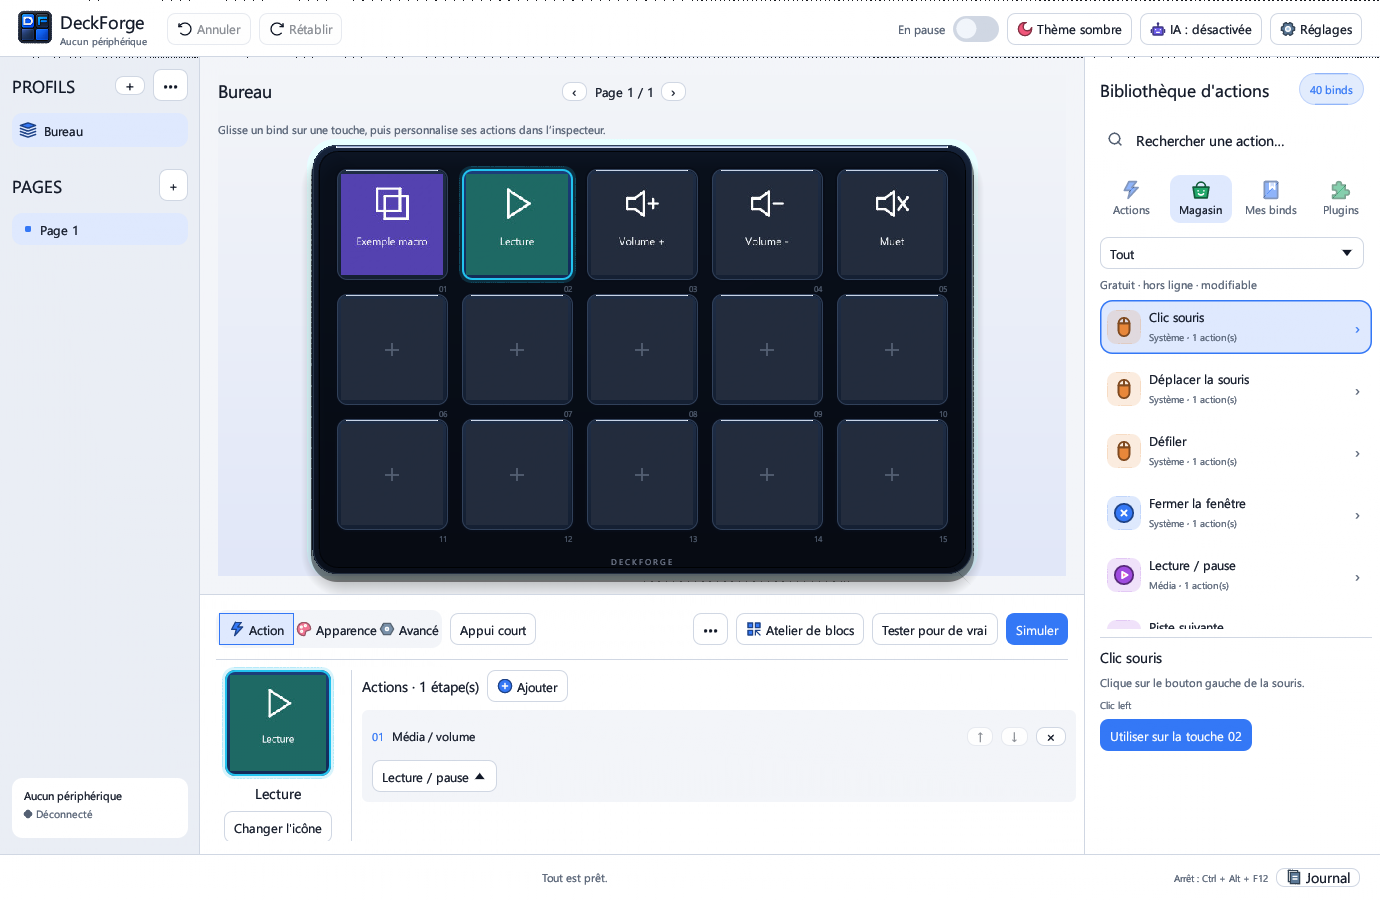
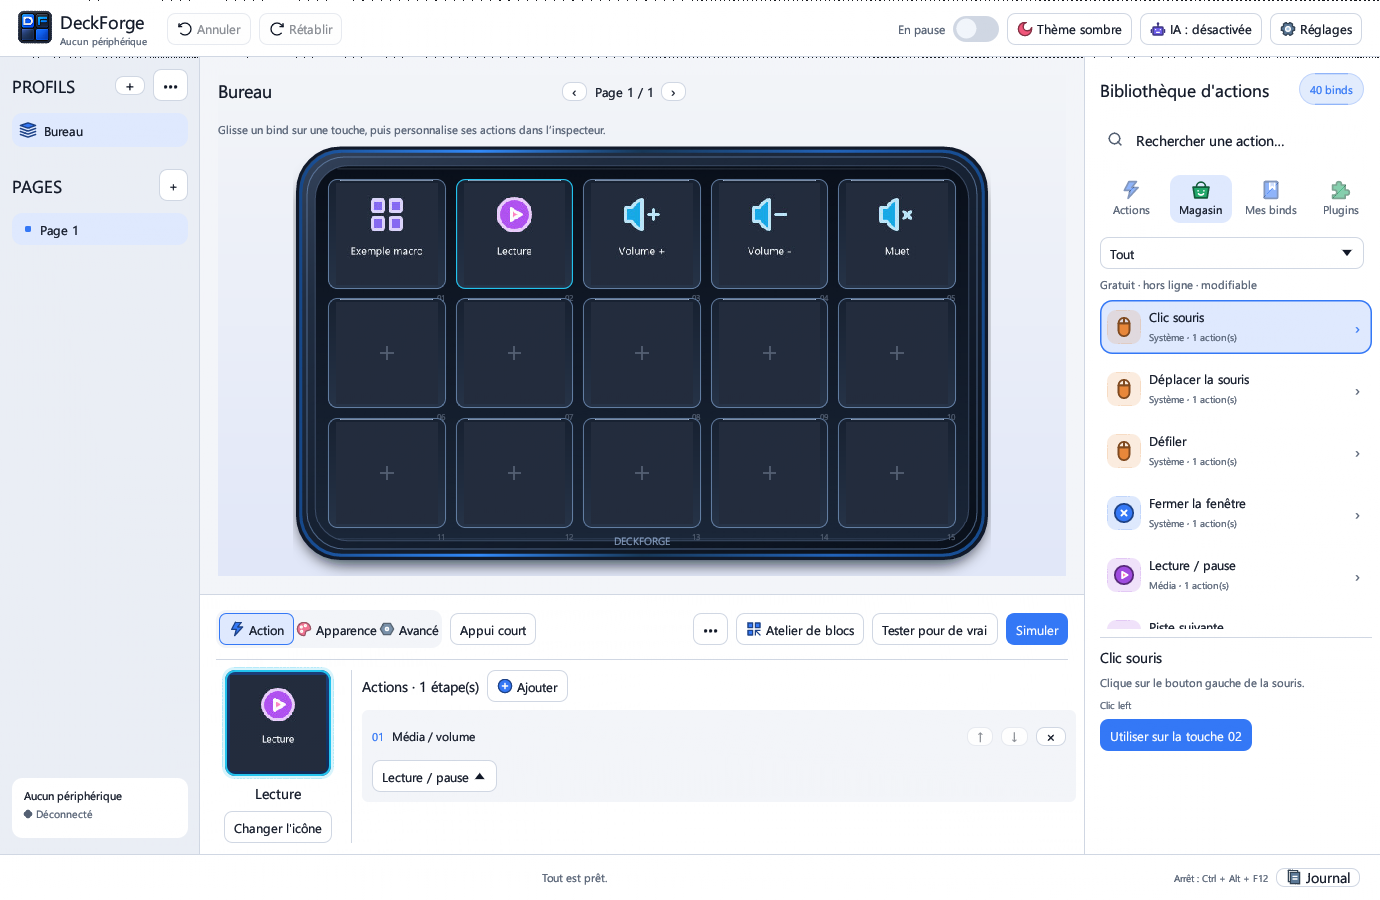
fix(ui): align dynamic deck keys to SVG chassis

Changed region(s): [[0.187, 0.1556, 0.7167, 0.6533], [0.1558, 0.7467, 0.2493, 0.8711]]

diff --git a/src/deck_chassis.rs b/src/deck_chassis.rs
@@ -1,4 +1,4 @@
-//! Habillage SVG du pavé 5 × 3 : châssis, reliefs, ombres et emplacements des touches.
+//! Châssis SVG 3D sans art individuel des touches ; relief et contenus dynamiques par egui.
 //!
 //! Trois couches :
 //! 1. ce châssis (`res/deck/chassis.svg`, sans les faces des touches), rastérisé une fois par
@@ -16,22 +16,29 @@ const ORIGIN: Vec2 = Vec2::new(22.0, 14.0);
 pub const VIEW: Vec2 = Vec2::new(1356.0, 838.0);
 pub const COLS: usize = 5;
 pub const ROWS: usize = 3;
-/// Face d'une touche dans la viewBox : origine, pas et taille.
-const FACE_ORIGIN: Vec2 = Vec2::new(113.0, 104.0);
-const FACE_PITCH: Vec2 = Vec2::new(244.0, 225.0);
-pub const FACE_SIZE: Vec2 = Vec2::new(202.0, 190.0);
-const FACE_RADIUS: f32 = 21.0;
+/// Le rectangle intérieur du SVG est la référence commune au châssis et aux 15 touches.
+const INNER_MIN: Vec2 = Vec2::new(65.0, 54.0);
+const INNER_SIZE: Vec2 = Vec2::new(1270.0, 730.0);
+const GRID_PADDING: Vec2 = Vec2::new(25.0, 26.0);
+const GRID_GAP: Vec2 = Vec2::new(20.0, 18.0);
+pub const FACE_SIZE: Vec2 = Vec2::new(
+    (INNER_SIZE.x - 2.0 * GRID_PADDING.x - 4.0 * GRID_GAP.x) / COLS as f32,
+    (INNER_SIZE.y - 2.0 * GRID_PADDING.y - 2.0 * GRID_GAP.y) / ROWS as f32,
+);
+const FACE_ORIGIN: Vec2 = Vec2::new(INNER_MIN.x + GRID_PADDING.x, INNER_MIN.y + GRID_PADDING.y);
+const FACE_PITCH: Vec2 = Vec2::new(FACE_SIZE.x + GRID_GAP.x, FACE_SIZE.y + GRID_GAP.y);
+const FACE_RADIUS: f32 = 18.0;
 
 /// Le châssis SVG ne sert qu'au format 5 × 3 (FIFINE D6 et équivalents).
 pub fn applies(cols: usize, rows: usize) -> bool {
     cols == COLS && rows == ROWS
 }
 
-/// Plus grand rectangle aux proportions du SVG dans `available`, centré horizontalement, en haut.
+/// Plus grand rectangle sans déformation, centré dans la zone disponible.
 pub fn fit(available: Rect) -> Rect {
     let scale = (available.width() / VIEW.x).min(available.height() / VIEW.y).max(0.05);
     let size = VIEW * scale;
-    Rect::from_min_size(egui::pos2(available.center().x - size.x / 2.0, available.top()), size)
+    Rect::from_center_size(available.center(), size)
 }
 
 /// Échelle du châssis (points d'écran par unité SVG).
@@ -39,12 +46,16 @@ pub fn scale(chassis: Rect) -> f32 {
     chassis.width() / VIEW.x
 }
 
-/// Face de la touche `index` (0 à 14), alignée sur son emplacement du SVG.
+/// Convertit une position SVG absolue en points d'écran avec le même repère que les touches.
+pub fn svg_point(chassis: Rect, point: egui::Pos2) -> egui::Pos2 {
+    chassis.min + (point.to_vec2() - ORIGIN) * scale(chassis)
+}
+
+/// Face de la touche `index` (0 à 14) dans le repère commun du SVG.
 pub fn face(chassis: Rect, index: usize) -> Rect {
-    let s = scale(chassis);
     let (col, row) = ((index % COLS) as f32, (index / COLS) as f32);
-    let min = chassis.min + (FACE_ORIGIN - ORIGIN + Vec2::new(FACE_PITCH.x * col, FACE_PITCH.y * row)) * s;
-    Rect::from_min_size(min, FACE_SIZE * s)
+    let min = svg_point(chassis, (FACE_ORIGIN + Vec2::new(FACE_PITCH.x * col, FACE_PITCH.y * row)).to_pos2());
+    Rect::from_min_size(min, FACE_SIZE * scale(chassis))
 }
 
 /// Zone carrée de l'aperçu LCD, centrée dans la face (le contenu n'est jamais déformé).
@@ -115,27 +126,29 @@ pub fn paint(painter: &egui::Painter, chassis: Rect) -> bool {
     true
 }
 
-/// Face dynamique d'une touche, dans le style du SVG (dégradé, liseré clair, reflets).
+/// Face 3D dynamique : ombre intérieure dans le dégradé, un unique contour et un reflet discret.
 pub fn paint_face(painter: &egui::Painter, face: Rect, scale: f32, selected: bool, flashing: bool) {
     let radius = FACE_RADIUS * scale;
+    // Le sommet sombre suggère l'enfoncement ; la base plus claire garde le relief lisible.
     let (top, bottom) = if flashing {
-        (Color32::from_rgb(40, 104, 92), Color32::from_rgb(20, 60, 56))
-    } else if selected {
-        (Color32::from_rgb(52, 88, 150), Color32::from_rgb(28, 50, 96))
+        (Color32::from_rgb(19, 47, 48), Color32::from_rgb(34, 63, 59))
     } else {
-        (Color32::from_rgb(64, 82, 110), Color32::from_rgb(32, 43, 64))
+        (Color32::from_rgb(24, 34, 50), Color32::from_rgb(39, 52, 72))
     };
     crate::theme::rounded_gradient(painter, face, radius, top, bottom);
-    painter.rect_stroke(face, radius, Stroke::new((1.5 * scale).max(1.0), Color32::from_rgba_unmultiplied(139, 175, 221, 178)), egui::StrokeKind::Inside);
-    let line = |a: Vec2, b: Vec2, alpha: u8| {
-        painter.line_segment([face.min + a * scale, face.min + b * scale], Stroke::new((2.0 * scale).max(1.0), Color32::from_rgba_unmultiplied(197, 223, 255, alpha)));
+    let (stroke, color) = if flashing {
+        (2.2, crate::theme::GREEN)
+    } else if selected {
+        (2.2, crate::theme::CYAN)
+    } else {
+        (1.15, Color32::from_rgba_unmultiplied(126, 157, 196, 125))
     };
-    line(Vec2::new(18.0, 4.0), Vec2::new(183.0, 4.0), 87);
-    line(Vec2::new(9.0, 33.0), Vec2::new(9.0, 153.0), 46);
-    if selected || flashing {
-        let color = if flashing { crate::theme::GREEN } else { crate::theme::CYAN };
-        painter.rect_stroke(face.expand(3.0 * scale + 1.0), radius + 3.0 * scale, Stroke::new((5.0 * scale).max(2.0), color), egui::StrokeKind::Outside);
-    }
+    painter.rect_stroke(face, radius, Stroke::new((stroke * scale).max(0.9), color), egui::StrokeKind::Inside);
+    // Un reflet local (pas un second rectangle qui doublerait les bordures).
+    painter.line_segment([
+        face.left_top() + Vec2::new(24.0, 3.0) * scale,
+        face.right_top() + Vec2::new(-24.0, 3.0) * scale,
+    ], Stroke::new((1.0 * scale).max(0.5), Color32::from_rgba_unmultiplied(202, 221, 244, 68)));
 }
 
 #[cfg(test)]
@@ -143,17 +156,36 @@ mod tests {
     use super::*;
 
     #[test]
-    fn faces_match_the_svg_slots_and_keep_proportions() {
-        // Les emplacements du SVG (puits + biseau) entourent chaque face d'environ 11 unités.
+    fn chassis_contains_no_key_art_and_dynamic_faces_fill_the_inner_shell() {
+        assert!(!SVG.contains("id=\"key-"), "aucune bordure de touche dans le SVG");
+        assert!(!SVG.contains("url(#edge)"), "aucun biseau individuel dans le SVG");
+        assert!(!SVG.contains("key-shadow"), "aucune ombre individuelle dans le SVG");
         let chassis = Rect::from_min_size(ORIGIN.to_pos2(), VIEW);
-        let slots = [(102.0, 93.0), (346.0, 93.0), (1078.0, 543.0)];
-        for (i, (x, y)) in [0usize, 1, 14].into_iter().zip(slots) {
-            let f = face(chassis, i);
-            assert_eq!((f.min.x - x, f.min.y - y), (11.0, 11.0), "touche {i}");
-            assert!(SVG.contains(&format!("x=\"{}\" y=\"{}\" width=\"224\" height=\"212\"", x as i32, y as i32)), "emplacement {i} présent");
+        let first = face(chassis, 0);
+        let last = face(chassis, 14);
+        assert_eq!(first.min, egui::pos2(90.0, 80.0));
+        assert_eq!(first.size(), Vec2::new(228.0, 214.0));
+        assert_eq!(last.max, egui::pos2(1310.0, 758.0));
+        assert_eq!((face(chassis, 1).left() - first.right()).round(), 20.0);
+        assert_eq!((face(chassis, 5).top() - first.bottom()).round(), 18.0);
+        for available in [Rect::from_min_size(egui::Pos2::ZERO, Vec2::new(900.0,300.0)), Rect::from_min_size(egui::Pos2::ZERO, Vec2::new(500.0,900.0))] {
+            let fitted = fit(available);
+            assert!(available.contains_rect(fitted));
+            assert!((fitted.width()/fitted.height()-VIEW.x/VIEW.y).abs()<1e-3);
+            assert!(fitted.contains_rect(face(fitted,0)) && fitted.contains_rect(face(fitted,14)));
         }
-        assert!(!SVG.contains("url(#key)"), "faces pleines retirées du SVG");
-        assert_eq!(SVG.matches("url(#edge)").count(), 15, "les 15 biseaux restent");
+    }
+
+    #[test]
+    fn dynamic_faces_remain_in_the_inner_shell_at_every_scale() {
+        let chassis = Rect::from_min_size(ORIGIN.to_pos2(), VIEW);
+        let inner = Rect::from_min_size(INNER_MIN.to_pos2(), INNER_SIZE);
+        for i in 0..15 {
+            assert!(inner.contains_rect(face(chassis, i)), "touche {i} contenue dans le châssis");
+        }
+        assert_eq!(face(chassis, 0).left()-inner.left(), GRID_PADDING.x);
+        assert_eq!(inner.right()-face(chassis, 4).right(), GRID_PADDING.x);
+        assert_eq!(inner.bottom()-face(chassis, 14).bottom(), GRID_PADDING.y);
         for available in [Rect::from_min_size(egui::Pos2::ZERO, Vec2::new(900.0, 300.0)), Rect::from_min_size(egui::Pos2::ZERO, Vec2::new(500.0, 900.0))] {
             let c = fit(available);
             assert!((c.width() / c.height() - VIEW.x / VIEW.y).abs() < 1e-3, "sans déformation");
@@ -178,11 +210,11 @@ mod tests {
         assert_eq!(image.size, [704, 435]);
         let opaque = image.pixels.iter().filter(|p| p.a() > 200).count();
         assert!(opaque > 704 * 435 / 2, "châssis visible");
-        // Centre d'une face : vide dans le SVG (biseau seulement), la face vient d'egui.
+        // Le centre de la touche reste le fond sombre du châssis, jamais une face SVG.
         let s = 704.0 / VIEW.x;
         let center = face(Rect::from_min_size(egui::Pos2::ZERO, VIEW * s), 7).center();
         let p = image.pixels[(center.y as usize) * 704 + center.x as usize];
-        assert!(p.r() > 20 || p.b() > 60, "le biseau de l'emplacement reste visible sous la face : {p:?}");
+        assert!(p.r() < 45 && p.b() < 90, "aucune surface de touche prédessinée : {p:?}");
         assert!(Arc::ptr_eq(&image, &rasterize(704).unwrap()));
     }
 }

diff --git a/src/ui_tests.rs b/src/ui_tests.rs
@@ -590,7 +590,7 @@ fn deck_scales_with_window_without_scrolling() {
         h.warm(size);
         assert_eq!(h.app.drop_targets.len(), 15);
         let last = h.app.drop_targets[14].0;
-        assert!((last.width() / last.height() - 202.0 / 190.0).abs() < 0.01 && last.max.y <= size.y, "{size:?}: {last:?}");
+        assert!((last.width() / last.height() - crate::deck_chassis::FACE_SIZE.x / crate::deck_chassis::FACE_SIZE.y).abs() < 0.01 && last.max.y <= size.y, "{size:?}: {last:?}");
         widths.push(h.app.drop_targets[0].0.width());
     }
     assert!(widths[0] < widths[1] && widths[1] < widths[2], "{widths:?}");
@@ -611,7 +611,7 @@ fn all_fifteen_keys_remain_visible_in_both_themes_and_window_sizes() {
         assert_eq!(h.app.drop_targets.len(), 15);
         for (r, i) in &h.app.drop_targets {
             assert!(
-                r.width() > 47.0 && (r.width() / r.height() - 202.0 / 190.0).abs() < 0.01,
+                r.width() > 47.0 && (r.width() / r.height() - crate::deck_chassis::FACE_SIZE.x / crate::deck_chassis::FACE_SIZE.y).abs() < 0.01,
                 "Key {} clipped in {}: {:?}",
                 i + 1,
                 label,
@@ -1754,6 +1754,19 @@ fn startup_intro_page_fade_and_waiting_dot_animate_without_blocking() {
 }
 
 #[test]
+fn factory_example_keys_keep_actions_and_icons_but_use_no_colored_lcd_background() {
+    let cfg = Config::default();
+    for (i, label) in [(0, "Exemple macro"), (1, "Lecture")] {
+        let key = &cfg.keys()[i];
+        assert_eq!(key.label, label);
+        assert!(!key.steps.is_empty(), "actions conservées");
+        assert!(key.image.is_empty(), "icônes par défaut conservées");
+        assert!(key.background, "LCD cohérent avec les autres touches");
+        assert_eq!(key.color, Key::default().color, "aucun fond violet ou vert sur {label}");
+    }
+}
+
+#[test]
 fn svg_chassis_aligns_the_fifteen_live_keys_and_renders_once() {
     let dir = tempfile::tempdir().unwrap();
     // Contenus variés : image PNG, GIF animé, icône par défaut, titre seul, touche vide.
@@ -1784,9 +1797,9 @@ fn svg_chassis_aligns_the_fifteen_live_keys_and_renders_once() {
         let w = rects[0].width();
         for (i, r) in rects.iter().enumerate() {
             assert!(r.min.x >= 0.0 && r.max.x <= size.x && r.min.y >= 0.0 && r.max.y <= size.y, "{name} : touche {i} visible {r:?}");
-            assert!((r.width() / r.height() - 202.0 / 190.0).abs() < 0.01, "{name} : face aux proportions du SVG");
+            assert!((r.width() / r.height() - crate::deck_chassis::FACE_SIZE.x / crate::deck_chassis::FACE_SIZE.y).abs() < 0.01, "{name} : face aux proportions du SVG");
             let (col, row) = ((i % 5) as f32, (i / 5) as f32);
-            let expected = rects[0].min + vec2(244.0 * col, 225.0 * row) * (w / 202.0);
+            let expected = rects[0].min + vec2(248.0 * col, 232.0 * row) * (w / crate::deck_chassis::FACE_SIZE.x);
             assert!((r.min - expected).length() < 0.6, "{name} : touche {i} alignée sur son emplacement ({r:?} / {expected:?})");
         }
         assert!(w >= 40.0, "{name} : touches assez grandes ({w})");

diff --git a/src/model.rs b/src/model.rs
@@ -603,7 +603,7 @@ impl Default for Config {
         let mut profile = Profile::new("Bureau".into());
         profile.keys[0] = Key {
             label: "Exemple macro".into(),
-            color: [83, 66, 175],
+            color: Key::default().color,
             steps: vec![
                 Step::Delay { ms: 1500 },
                 Step::Hotkey {
@@ -615,7 +615,7 @@ impl Default for Config {
         };
         profile.keys[1] = Key {
             label: "Lecture".into(),
-            color: [30, 105, 99],
+            color: Key::default().color,
             steps: vec![Step::Media {
                 command: "play_pause".into(),
             }],

diff --git a/src/ui.rs b/src/ui.rs
@@ -3500,7 +3500,7 @@ impl App {
                         self.deck_key(ctx, ui, i, r, response, width, Some(s));
                     }
                     ui.painter().text(
-                        chassis.min + Vec2::new(700.0, 769.0) * s,
+                        crate::deck_chassis::svg_point(chassis, egui::pos2(700.0, 783.0)),
                         egui::Align2::CENTER_CENTER,
                         "DECKFORGE",
                         egui::FontId::proportional((20.0 * s).clamp(7.0, 12.0)),

diff --git a/README.md b/README.md
@@ -6,8 +6,8 @@
 
   [![Licence MIT](https://img.shields.io/badge/Licence-MIT-blue.svg)](LICENSE)
   [![Rust](https://img.shields.io/badge/Rust-1.80%2B-orange.svg)](https://www.rust-lang.org/)
-  [![Tests](https://img.shields.io/badge/Tests-372%20pass%C3%A9s-brightgreen.svg)]()
-  [![Version](https://img.shields.io/badge/Release-v0.8.5-purple.svg)](https://github.com/HatiFlash/DeckForge/releases/tag/v0.8.5)
+  [![Tests](https://img.shields.io/badge/Tests-374%20pass%C3%A9s-brightgreen.svg)]()
+  [![Version](https://img.shields.io/badge/Release-v0.8.6-purple.svg)](https://github.com/HatiFlash/DeckForge/releases/tag/v0.8.6)
 </div>
 
 ---
@@ -18,7 +18,19 @@
 
 ---
 
-## 🆕 Nouveautés 0.8.5
+## 🆕 Nouveautés 0.8.6
+
+- **Châssis 3D sans touches pré-dessinées** : le SVG ne dessine que le boîtier. Les 15 touches interactives egui remplissent mieux l'intérieur (faces 228 × 214 au lieu de 202 × 190 en coordonnées SVG), avec des marges et écarts réduits, un relief léger et un seul contour. La grille et le boîtier partagent le même repère et s'adaptent sans déformation à la fenêtre et au DPI.
+- Les exemples d'origine « Exemple macro » et « Lecture » utilisent désormais le fond neutre des autres touches, sans aplats violet/vert. Les profils déjà personnalisés, leurs images, GIF, vidéos et actions ne sont pas remplacés ; les nouvelles couleurs concernent les profils créés avec les valeurs d'origine.
+- Vérifié sur le banc Windows : 374 tests réussis (18 ignorés), captures à 1060 × 720, 1380 × 900 et 1920 × 1080 à 125 % de DPI. Voir [les notes de la 0.8.6](docs/RELEASE-0.8.6.md).
+
+| Fenêtre compacte (1060 × 720) | HiDPI et médias d'essai (1920 × 1080, 125 %) |
+|---|---|
+| ![Pavé compact avec 15 touches egui](docs/deck-compact-1060.png) | ![Pavé HiDPI avec icônes et médias de test](docs/deck-1920-125.png) |
+
+*Captures de l'interface en banc VM, sans FIFINE D6 connecté. La vue HiDPI contient des médias de test, pas des images ou profils de l'utilisateur.*
+
+## Nouveautés 0.8.5
 
 - **Bibliothèque → Plugins** : le panneau défile sur toute sa hauteur, les cartes sont lisibles sur petite fenêtre, le bouton « Importer ce plugin » reste sous chaque plugin ; les détails longs sont repliés et l'audio natif reste accessible dans une section dédiée.
 - **Inspecteur de touche** : l'aperçu et « Changer l'icône » restent fixes à gauche ; seul le formulaire de propriétés défile à droite.
@@ -135,8 +147,8 @@ DeckForge embarque un serveur MCP (**Model Context Protocol**) natif pour collab
 
 ## 🚀 Prise en main rapide
 
-1. Téléchargez **`DeckForge-0.8.5-Setup.exe`** depuis la [page des Releases](https://github.com/HatiFlash/DeckForge/releases) et lancez-le (aucun droit administrateur requis). DeckForge s'installe dans `%LOCALAPPDATA%\Programs\DeckForge` avec un raccourci dans le menu Démarrer.
-   - Version portable : `DeckForge-0.8.5-Windows.zip`, à extraire dans le dossier de votre choix.
+1. Téléchargez **`DeckForge-0.8.6-Setup.exe`** depuis la [page des Releases](https://github.com/HatiFlash/DeckForge/releases) et lancez-le (aucun droit administrateur requis). DeckForge s'installe dans `%LOCALAPPDATA%\Programs\DeckForge` avec un raccourci dans le menu Démarrer.
+   - Version portable : `DeckForge-0.8.6-Windows.zip`, à extraire dans le dossier de votre choix.
    - Vous utilisiez déjà la version portable ? Copiez `config.json`, `preferences.json`, `variables.json` et les dossiers `assets` et `plugins` de l'ancien dossier vers le dossier d'installation, DeckForge fermé.
 2. Lancez DeckForge depuis le menu Démarrer.
 3. *Note importante pour les possesseurs du FIFINE D6 :* veillez à fermer le logiciel officiel FIFINE afin de libérer l'accès USB exclusif pour DeckForge.
@@ -160,7 +172,7 @@ cargo build --release --locked
 cargo test --locked
 
 # Construire l'installateur (Inno Setup 6 ou 7 requis)
-powershell -ExecutionPolicy Bypass -File tools\Build-Installer.ps1 -Version 0.8.5 -Build
+powershell -ExecutionPolicy Bypass -File tools\Build-Installer.ps1 -Version 0.8.6 -Build
 ```
 
 ---

diff --git a/docs/RELEASE-0.8.6.md b/docs/RELEASE-0.8.6.md
@@ -1,0 +1,11 @@
+# DeckForge 0.8.6 — pavé 5 × 3 mieux intégré
+
+## Châssis et touches
+- Le SVG ne contient plus aucune surface, bordure ni ombre de touche : seulement le châssis 3D. Les 15 touches restent interactives et entièrement dessinées par egui ; un contour par touche, reflet discret et ombre intérieure suggérée par le dégradé.
+- Un seul système de coordonnées dérivé du rectangle intérieur du SVG place la grille et le châssis : faces 228 × 214 (au lieu de 202 × 190), écarts 20 × 18 (au lieu de 42 × 35). Centrage et mise à l'échelle uniformes, sans déformation ni décalage fixe rajouté.
+- Les deux touches d'exemple « Exemple macro » et « Lecture » n'ont plus de fonds saturés violet/vert dans **les nouvelles configurations** : fond neutre identique aux autres touches. Les profils existants et couleurs choisies volontairement ne sont pas modifiés lors de la mise à jour.
+- Aucun changement aux actions, profils, macros, plugins ou au moteur des images/GIF/vidéos personnalisés.
+
+## Vérifications et limites
+- Banc Windows : 374 tests réussis, 0 échec, 18 ignorés (notamment périphériques/interactifs) ; compilation et installateur 0.8.6 validés localement. Captures examinées en thèmes sombre/clair à 1060 × 720 et 1380 × 900, plus 1920 × 1080 à 125 % de DPI. Images dans `docs/` issues du banc sans matériel D6.
+- Ce banc ne vérifie pas le rendu sur le FIFINE D6 physique ni la présence effective de tous les décodeurs vidéo sur le PC de l'utilisateur. La pointe mémoire de la 0.8.4 est restée non reproduite, sans cause établie.
